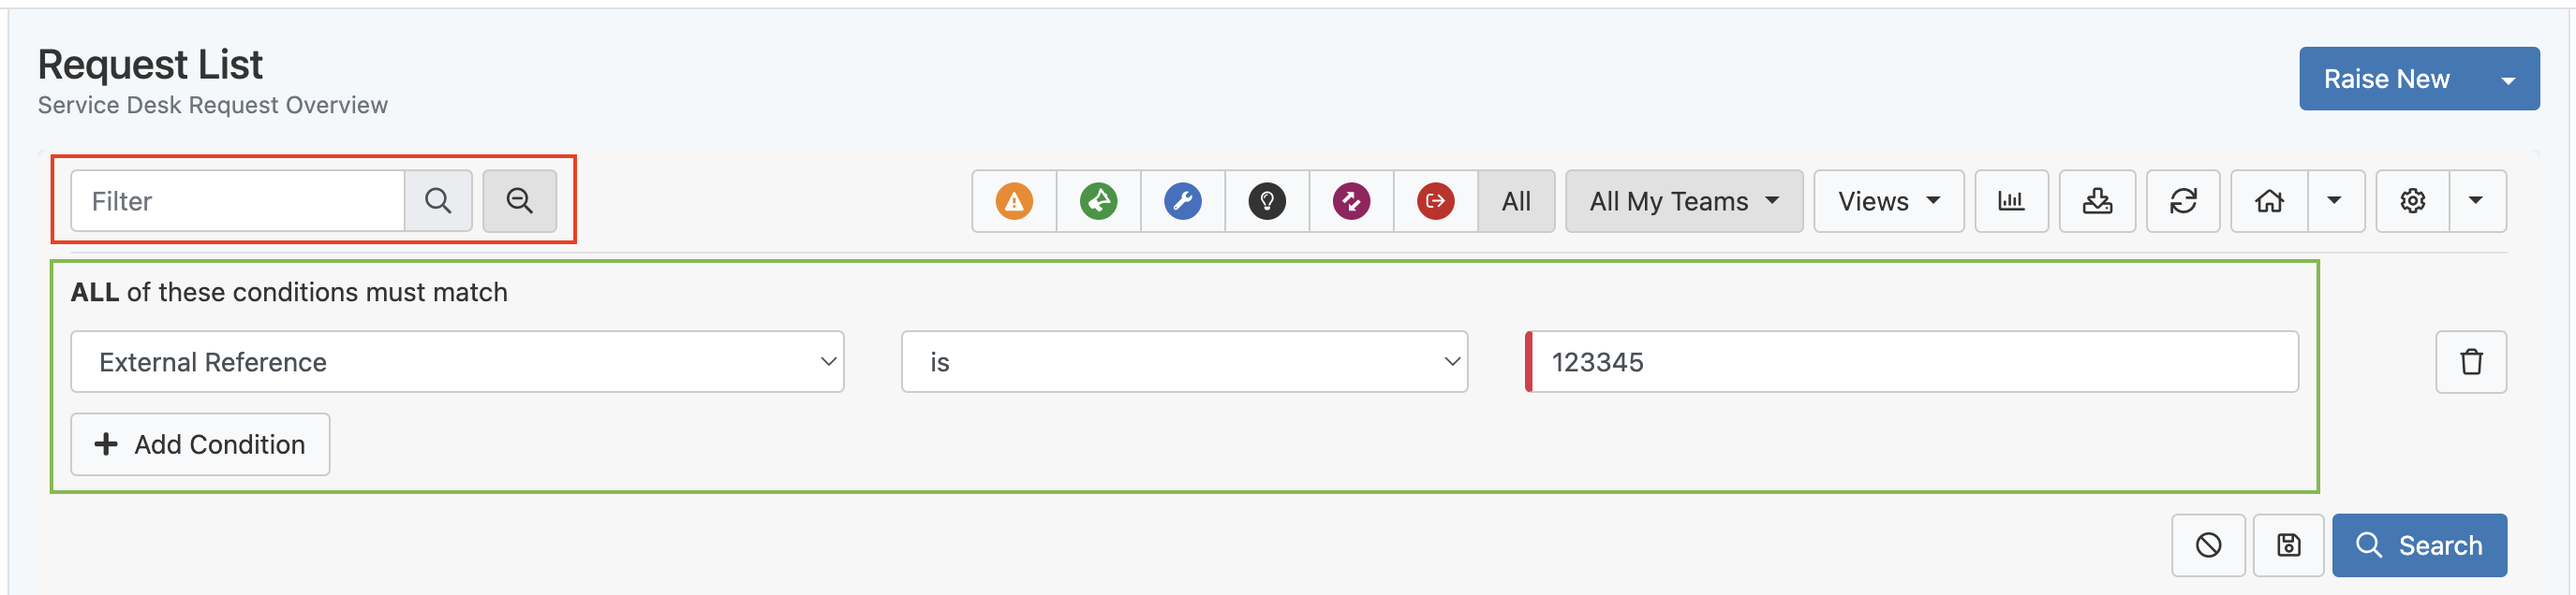
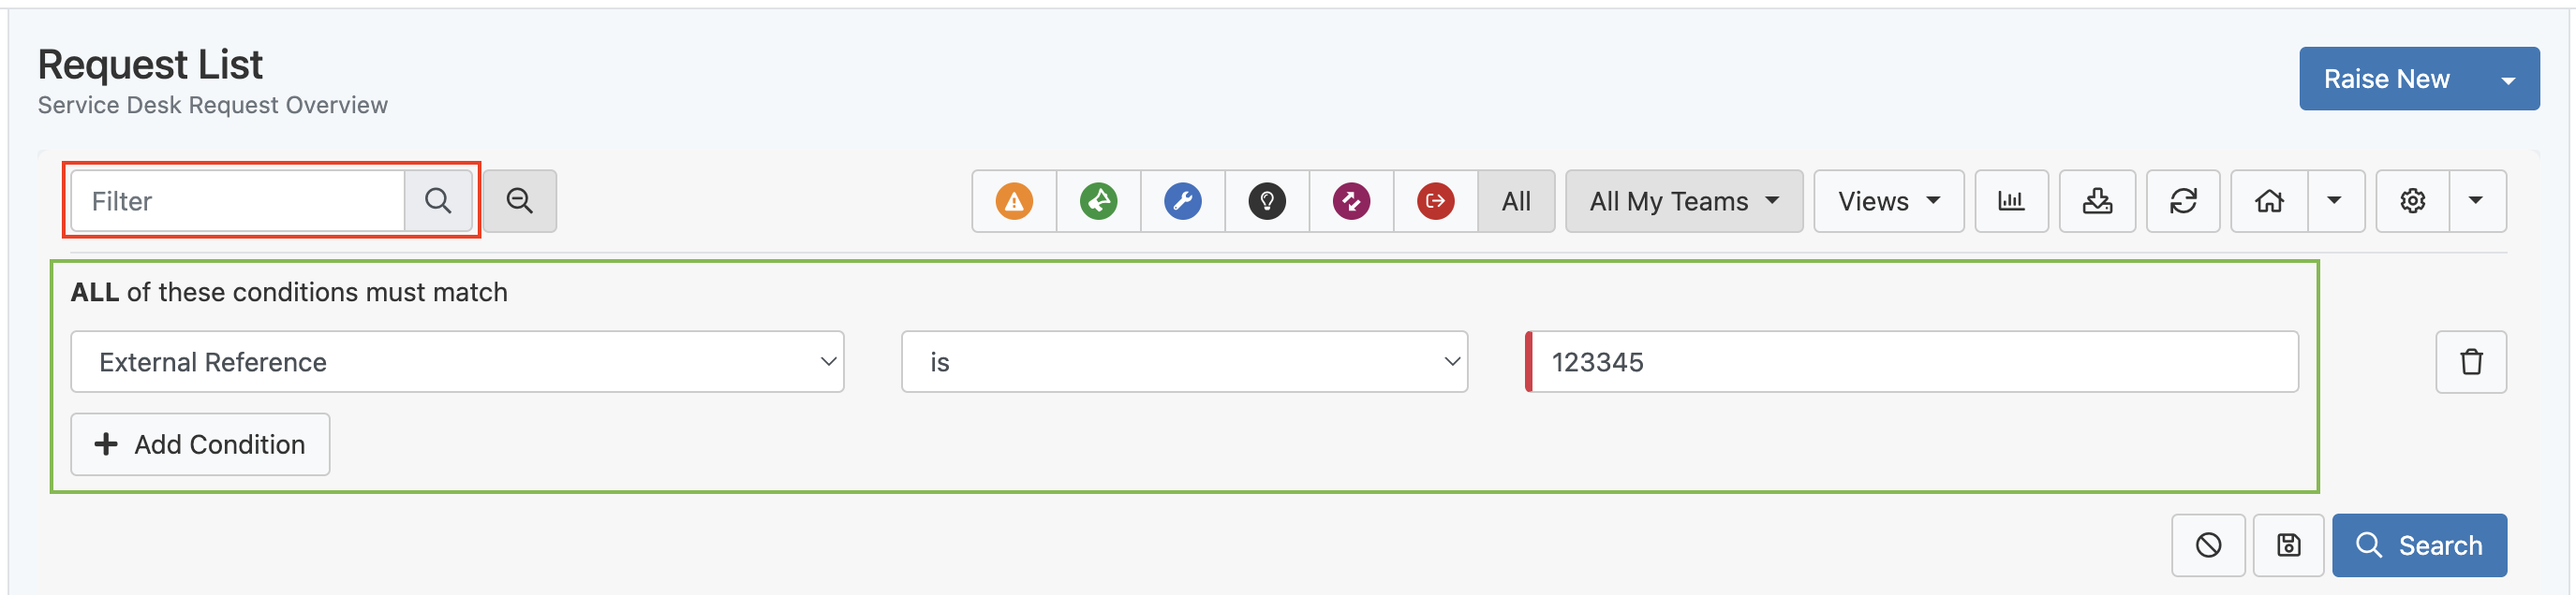
Minor edits to filter-usage.md; also added image to show Advanced search button

Changed region(s): [[0.0, 0.239, 0.2164, 0.2987], [0.0, 0.3884, 0.2164, 0.4182]]

diff --git a/servicemanager-user-guide/request-list/filter-usage.md b/servicemanager-user-guide/request-list/filter-usage.md
@@ -3,7 +3,7 @@ layout: article-toc
 ---
 # Optimizing filter usage in views
  
-The "Filter" box, highlighted in red, is often misunderstood, leading to missed results or performance problems. Its purpose is to narrow down your existing view by searching for whatever you enter across several predefined fields. These fields include: 
+The Filter box, highlighted in red below, is often misunderstood, leading to missed results or performance problems. Its purpose is to narrow down your existing view by searching for whatever you enter across several predefined fields. These fields include: 
 
 * Summary 
 * Description 
@@ -13,39 +13,46 @@ The "Filter" box, highlighted in red, is often misunderstood, leading to missed 
 * Priority 
 * Organization Name 
 
-![Quick filter and Advanced filter in views](/_books/servicemanager-user-guide/request-list/images/quick-filter-advanced-filter.png)
+![Quick filter and Advanced search in views](/_books/servicemanager-user-guide/request-list/images/quick-filter-advanced-filter.png)
 
-The Filter performs a "double wildcard" search. This means it looks for the text you enter anywhere within these fields. While this might seem convenient, it's actually **extremely inefficient** and can frequently return inaccurate results. In fact, it's the primary cause of performance slowdowns and why you might sometimes get no results at all. Although this functionality still exists, its use is strongly discouraged and may be removed or changed in future updates. 
+This filter performs a *double wildcard* search. This means it looks for the text you enter *anywhere* within the fields listed above. While this might seem convenient, it's actually **extremely inefficient** and can frequently return inaccurate results. In fact, it's the primary cause of performance slowdowns and why you might sometimes get no results at all. Although this functionality still exists, its use is strongly discouraged and may be removed or changed in future updates. 
 
-For accurate and efficient searches, you should **always use the advanced search fields**, highlighted in green. These fields allow you to target specific criteria, ensuring your search is precise and performs optimally. By using advanced search, you can directly specify the field you want to match, which is much more effective than the broad, inefficient "Filter" function.
+For accurate and efficient searches, you should **always use the advanced search fields**, highlighted in green. These fields allow you to target specific criteria, ensuring your search is precise and performs optimally. By using Advanced search, you can directly specify the field you want to match, which is much more effective than the broad, inefficient Filter function.
 
-Or to use the extremely fast main Request search below
+To access the advanced search fields, click **Advanced** to the right of the Filter box.
+
+![Advanced search in views](/_books/servicemanager-user-guide/request-list/images/advanced-search.png)
+
+Another option, which you might find to be even faster, is to search on Requests using the global search field in the Hornbill toolbar. Click the down arrow in the search field before entering your search term to access the filters shown below.
+
 ![Quick filter and Advanced filter in views](/_books/servicemanager-user-guide/request-list/images/main-search-on-requests.png)
-We often hear about performance hiccups with the My Requests view, and usually, they
-boil down to one of three common issues.
 
-**No Limiting Criteria**
-One of the biggest culprits for slow performance is not setting any limits on your view. The filters in My Requests are dynamic, meaning they adjust based on the selections made by the analyst who created them. If not properly configured, this can result in the system trying to pull incredibly large and inefficient datasets, like every single call ever logged
+## Common issues
+We often hear about performance hiccups with the My Requests view, and usually, they boil down to one of three common issues.
+
+### No limiting criteria
+One of the biggest culprits for slow performance is not setting any limits on your view. The filters in My Requests are dynamic, meaning they adjust based on the selections made by the agent who created them. If not properly configured, this can result in the system trying to pull incredibly large and inefficient datasets --- sometimes every single call ever logged
 since day one!
 
-   **The Fix:** Take a moment to think about exactly what you want to see. Even a small change, such as adding a filter where "Date Last Modified is greater than the Start of this year," can drastically improve performance by narrowing down the data the system has to process.
+**The fix:** Take a moment to think about exactly what you want to see. Even a small change, such as adding a filter where *Date Last Modified* is greater than the *Start of this year*, can drastically improve performance by narrowing down the data the system must process.
 
-**Too Much Limiting Criteria**
+### Too much limiting criteria
 On the flip side, sometimes users go overboard with their filters, ironically making the view useless. Adding every single team individually, or including every call status, or listing all service IDs one by one, essentially defeats the purpose of filtering. It's crucial to remember
-that My Requests list filters aren't meant to replace comprehensive reports.
-   **The Fix:** Simplify your filters. For instance, if you're trying to view too many call statuses in one go, reduce that number. It's far more efficient to create separate views for each call status you want to track. This not only improves performance but also makes your views much clearer and more focused.
+that the My Requests list filters aren't meant to replace comprehensive reports.
 
-**Outdated Historic Filters**
+**The fix:** Simplify your filters. For instance, if you're trying to view too many call statuses in one go, reduce that number. It's far more efficient to create separate views for each call status you want to track. This not only improves performance, but also makes your views much clearer and more focused.
+
+### Outdated historic filters
 It's common for views to be created and then never updated. Over time, these static views might no longer follow best practices or take advantage of new features that could significantly improve their efficiency.
 
-   **The Fix:** Regularly review your existing views to ensure they're still efficient and up-to-date. A classic example of an outdated filter is a hardcoded date field, like "Log Date is greater than 2022," when we're now well into 2025. These static dates need to be adjusted or replaced with dynamic options to keep your views relevant and performant.
+**The fix:** Regularly review your existing views to ensure they're still efficient and up to date. A classic example of an outdated filter is a hardcoded date field, such as *Log date is greater than 2022*, when we're now well past the year 2022. These static dates need to be adjusted or replaced with dynamic options to keep your views relevant and performant.
 
-## Addressing Performance Issues in Your Request List
-We understand that a slow Request List can be frustrating, and Hornbill is committed to ensuring a smooth experience for all users. When we identify significant performance issues within your instance's Request List, we'll reach out directly to your designated Primary and Secondary contacts. We'll ask them to collaborate with the affected endusers to implement the solutions we've discussed, such as refining search criteria and
-updating old filters
+## Addressing performance issues in your Request List
+We understand that a slow Request List can be frustrating, and Hornbill is committed to ensuring a smooth experience for all users. When we identify significant performance issues within your instance's Request List, we'll reach out directly to your designated primary and secondary contacts. We'll ask them to collaborate with the affected end users to implement the solutions we've discussed, such as refining search criteria and
+updating old filters.
 
-## Your Feedback Matters!
+## Your feedback matters!
 We're always looking for ways to improve your experience. We'd love to hear any feedback you have on how we can make searching for requests a more efficient and pleasant task. Your insights are invaluable in helping us enhance the system for everyone.
 
-## Hornbill's Right to Implement Limits
+## Hornbill's right to implement limits
 In the rare circumstance that, despite our escalations, changes aren't made to existing customer instance views causing persistent performance degradation, Hornbill reserves the right to add limits to request views. This is a measure we hope to avoid, but it's essential to maintain the stability and performance of the platform for all users.
